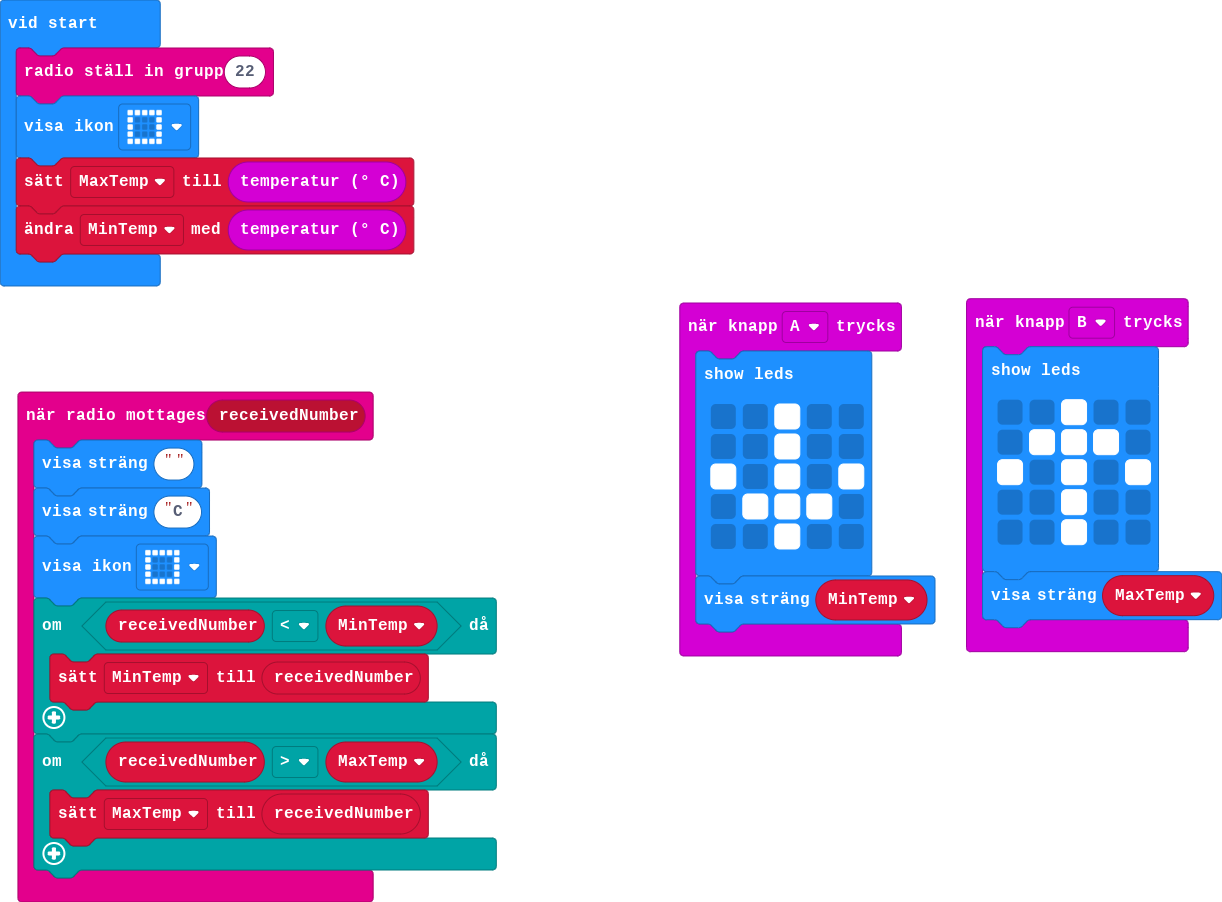
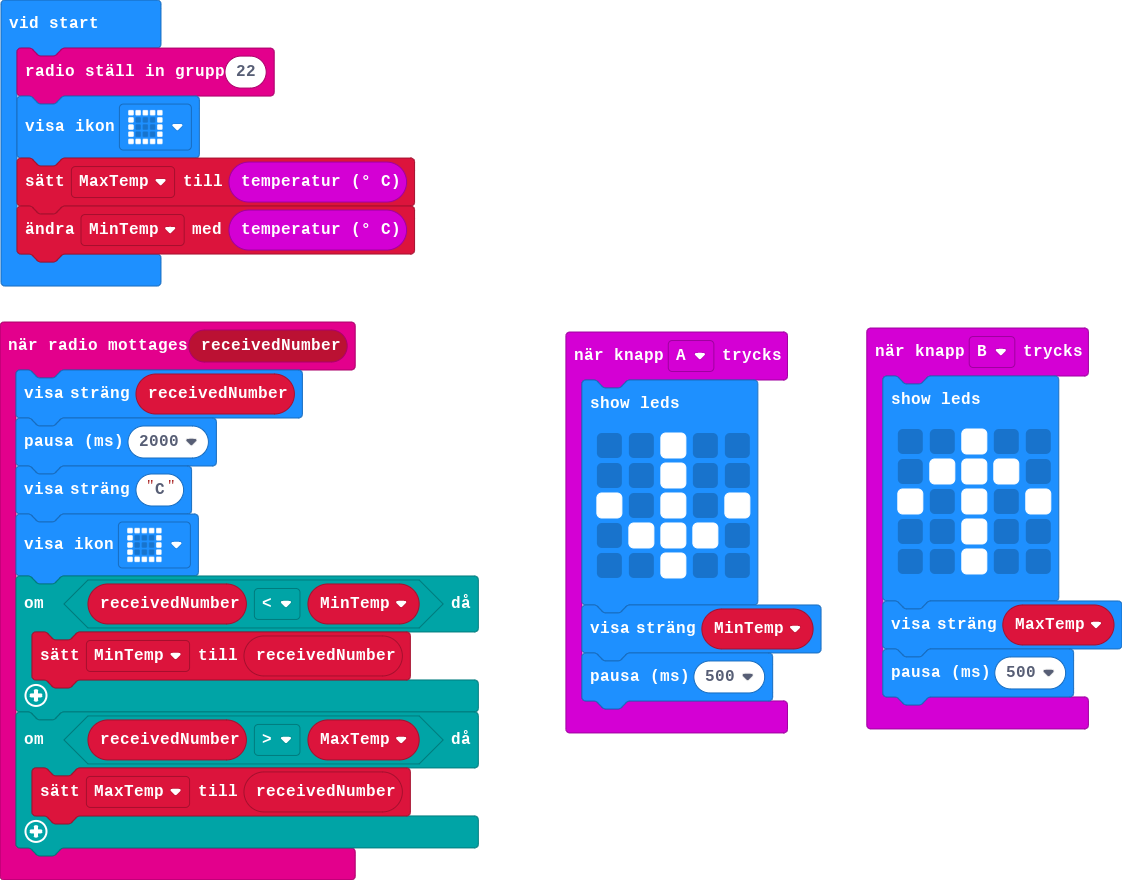
Längre tid för att visa temperaturen *

diff --git a/main.ts b/main.ts
@@ -1,5 +1,6 @@
 radio.onReceivedNumber(function (receivedNumber) {
-    basic.showString("")
+    basic.showString("" + (receivedNumber))
+    basic.pause(2000)
     basic.showString("C")
     basic.showIcon(IconNames.Square)
     if (receivedNumber < MinTemp) {
@@ -18,6 +19,7 @@ input.onButtonPressed(Button.A, function () {
         . . # . .
         `)
     basic.showString("" + (MinTemp))
+    basic.pause(500)
 })
 input.onButtonPressed(Button.B, function () {
     basic.showLeds(`
@@ -28,6 +30,7 @@ input.onButtonPressed(Button.B, function () {
         . . # . .
         `)
     basic.showString("" + (MaxTemp))
+    basic.pause(500)
 })
 let MinTemp = 0
 let MaxTemp = 0
